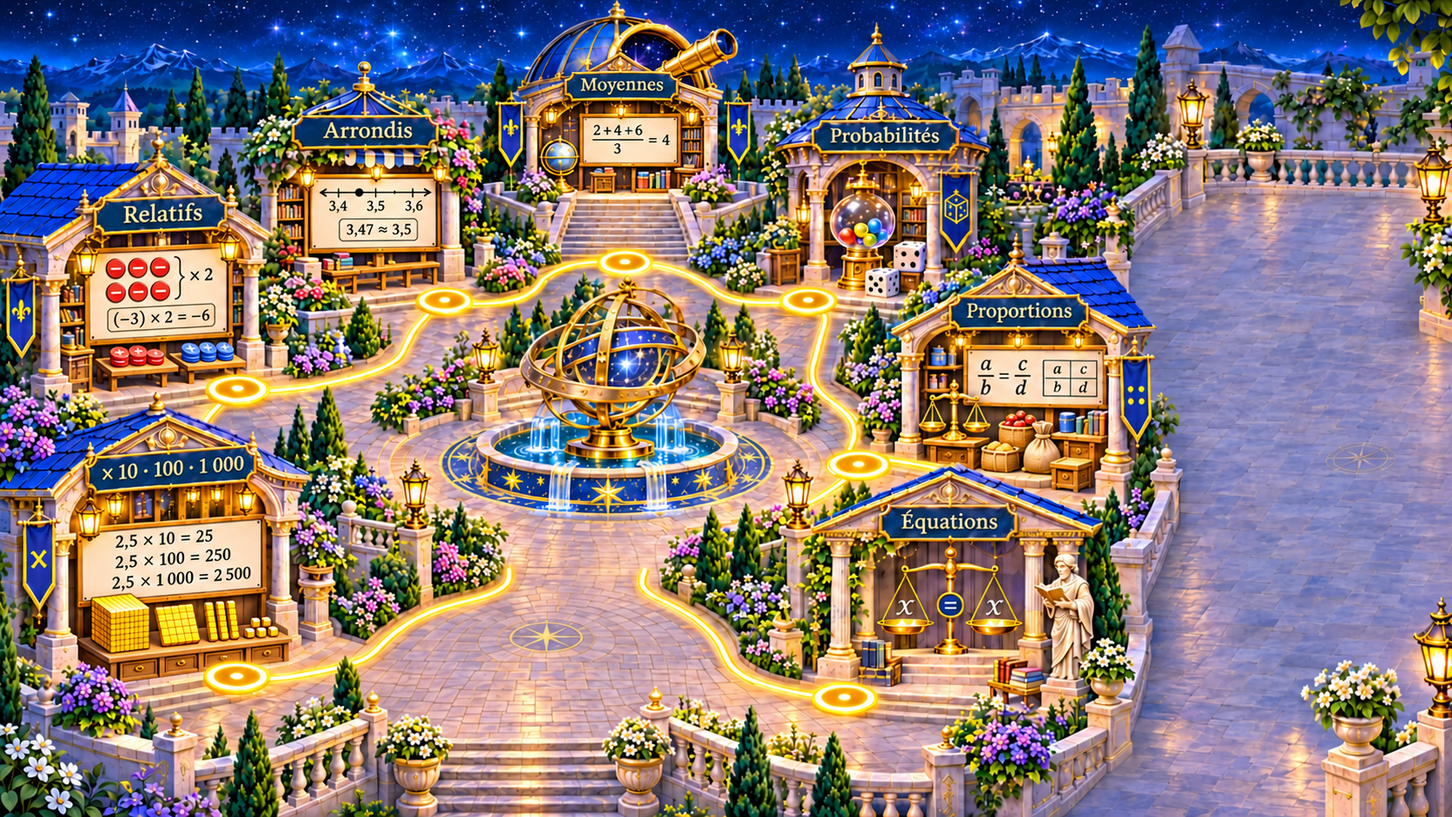
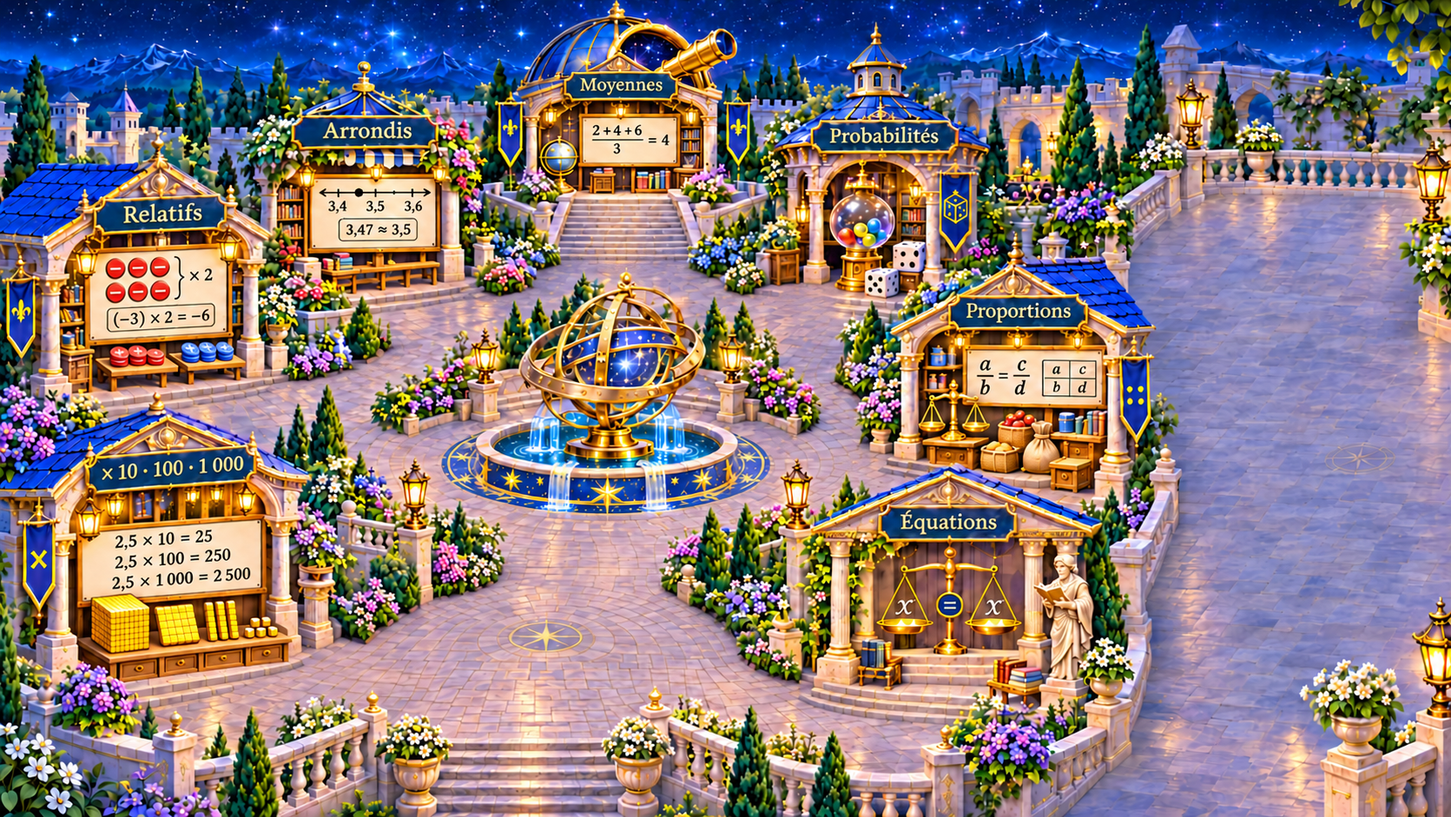
fix(test): center observatory paths and share gold route with hero movement (v0.3.60-test)

diff --git a/index.html b/index.html
@@ -4,7 +4,7 @@
   <meta charset="utf-8">
   <meta name="viewport" content="width=device-width, initial-scale=1">
   <meta name="theme-color" content="#111d31">
-  <title>Maths Quest — version 0.3.59-test — Bleu royal & or</title>
+  <title>Maths Quest — version 0.3.60-test — Bleu royal & or</title>
   <style>
     :root { font-family:system-ui,sans-serif; background:#101c2d; color:#eee6d4; color-scheme:dark; }
     * { box-sizing:border-box; }
@@ -203,7 +203,7 @@
 
 
     /* ====================================================================
-       v0.3.59-test - Thème retenu : Bleu royal, or et parchemin.
+       v0.3.60-test - Thème retenu : Bleu royal, or et parchemin.
        Toute la logique pédagogique 0.3 reste inchangée.
        ==================================================================== */
     .quiz-screen{
@@ -365,7 +365,7 @@
     @media(prefers-reduced-motion:reduce){.quiz-submit{transition:none}}
 
 
-    /* v0.3.59-test — Cartouche de défi à droite du héros. */
+    /* v0.3.60-test — Cartouche de défi à droite du héros. */
     .arrival{left:50.4%;top:27.7%;width:24.5%;max-width:360px;min-width:0;gap:clamp(3px,.5vw,8px);
       padding:clamp(5px,.72vw,12px);box-shadow:0 9px 23px #071c3bc7;}
     .arrival .arrival-heading{font-size:clamp(10px,.94vw,16px)}
@@ -373,7 +373,7 @@
     .arrival small{font-size:clamp(9px,.8vw,13px)}
     .arrival .arrival-action{font-size:clamp(10px,.95vw,16px);padding:clamp(6px,.65vw,12px)}
 
-    /* v0.3.59-test — Camp d'entrainement de face comme arrière-plan des exercices.
+    /* v0.3.60-test — Camp d'entrainement de face comme arrière-plan des exercices.
        L'interface d'Activités mentales reste indépendante de ce fond illustré. */
     .quiz-screen{
       background-image:linear-gradient(90deg,rgba(7,27,57,.47),rgba(10,34,63,.31) 50%,rgba(7,27,57,.47)),
@@ -417,7 +417,7 @@
 
 
     /* ================================================================
-       v0.3.59-test — adaptation à la HAUTEUR et à la LARGEUR de l'écran.
+       v0.3.60-test — adaptation à la HAUTEUR et à la LARGEUR de l'écran.
        Une question doit tenir dans la zone visible, bouton Valider inclus.
        Le bilan reste défilable car il contient les dix réponses.
        ================================================================ */
@@ -530,7 +530,7 @@
     }
 
 
-    /* v0.3.59-test — Écran de transition « Tables de multiplication ».
+    /* v0.3.60-test — Écran de transition « Tables de multiplication ».
        L'illustration est un décor, les zones actives sont de vrais boutons HTML. */
     .trial-transition[hidden] {display:none!important}
     .trial-transition {position:fixed;inset:0;z-index:55;display:flex;flex-direction:column;
@@ -575,7 +575,7 @@
     @media(min-width:701px){.oath{max-height:59%;overflow:auto}}
     .relative-intro{display:none!important}
     .transition-recap{left:68.1%;top:10.8%;width:20.8%;height:4%;background:#0b2541;font-size:clamp(8px,1.05vw,17px);border:0;box-shadow:none}
-    /* v0.3.59-test — Bilan ajusté à l'écran ; seul le détail des réponses défile. */
+    /* v0.3.60-test — Bilan ajusté à l'écran ; seul le détail des réponses défile. */
     .quiz-content:has(.quiz-results:not([hidden])) {
       display:flex;overflow:hidden;width:min(760px,calc(100% - 24px));
     }
@@ -901,7 +901,7 @@ body:has(dialog[open]) #appFullscreen{visibility:hidden}
 @media(max-width:640px){#appFullscreen{right:8px;bottom:8px;width:34px;height:34px;padding:7px}.brand-version{font-size:clamp(6px,1.5vw,10px)}}
 
 
-/* v0.3.59-test — Progression retirée des images sources, sans plaque de masquage. */
+/* v0.3.60-test — Progression retirée des images sources, sans plaque de masquage. */
 #scene,.transition-viewport{container-type:inline-size}
 .court-quests .court-quest-row{display:none!important}
 .court-quests .trial-groups{display:grid;height:68%;grid-auto-rows:minmax(0,1fr);grid-template-rows:none}
@@ -1092,7 +1092,7 @@ body:has(dialog[open]) #appFullscreen{visibility:hidden}
 <body>
 <svg width="0" height="0" aria-hidden="true" style="position:absolute"><defs><clipPath id="worldHeaderPanels" clipPathUnits="objectBoundingBox"><rect width=".33" height=".15"/><rect x=".39" width=".225" height=".15"/></clipPath></defs></svg>
   <main class="scene-area" id="sceneArea">
-    <div class="scene-viewport" id="scene"><span class="brand-version">v0.3.59-test</span>
+    <div class="scene-viewport" id="scene"><span class="brand-version">v0.3.60-test</span>
       <img class="scene-image" src="assets/carte-sans-progression.png"
         alt="L’Académie des Nombres, trois épreuves reliées par des flèches lumineuses, et l'entrée au premier plan." draggable="false">
       <svg class="route-layer" viewBox="0 0 1660 947" preserveAspectRatio="none" aria-hidden="true" focusable="false">
@@ -1183,7 +1183,7 @@ body:has(dialog[open]) #appFullscreen{visibility:hidden}
           draggable="false">
         <div class="quest-progress transition-progress" role="progressbar" aria-label="Défis validés" aria-valuemin="0" aria-valuemax="3" aria-valuenow="0"><span class="quest-progress-fill"></span></div>
         <span class="transition-recap" id="transitionRecap" aria-live="polite">1 / 3 défis validés ✓</span>
-        <span class="transition-version">Maths Quest · v0.3.59-test</span>
+        <span class="transition-version">Maths Quest · v0.3.60-test</span>
         <aside class="level-one-quests" aria-label="Quêtes du niveau 1"><h2>Quêtes du niveau</h2><div class="trial-groups"><div class="trial-group"><b>1</b><div><span id="transitionQuestLabel0">Calculs entiers</span><strong id="transitionQuestCount0"></strong></div><span id="transitionQuestDone0" class="court-quest-check" aria-label="Groupe en cours">✓</span></div><div class="trial-group"><b>2</b><div><span id="transitionQuestLabel1">Fractions</span><strong id="transitionQuestCount1"></strong></div><span id="transitionQuestDone1" class="court-quest-check" aria-label="Groupe en cours">✓</span></div></div><p>⭐ Obtiens au moins <strong>80 %</strong> de bonnes réponses pour avancer au niveau 2.</p></aside><div class="transition-panel-title">À toi de jouer !</div><div class="transition-choice-buttons"><button id="transitionStart" class="transition-hit transition-start" type="button"
           aria-label="Commencer le défi : Tables de multiplication" title="Commencer le défi"></button>
           <button id="skipCompletedTrial" class="skip-completed" type="button" hidden>Passer</button></div>
@@ -1217,7 +1217,7 @@ body:has(dialog[open]) #appFullscreen{visibility:hidden}
         <span class="quiz-logo" aria-hidden="true"><svg viewBox="0 0 64 68" width="45" height="48" role="presentation"><path d="M32 3 57 12 55 39Q47 55 32 64 17 55 9 39L7 12Z" fill="#173d79" stroke="#f8d38c" stroke-width="3"/><path d="M32 22Q23 14 15 20V43Q25 38 32 45Q39 38 49 43V20Q40 14 32 22Z" fill="#fff3cd" stroke="#d7b36a" stroke-width="2"/><path d="M32 22V45" fill="none" stroke="#aa8246" stroke-width="2"/><path d="M18 25Q25 23 29 27M35 27Q41 23 46 25M18 31Q24 29 29 33M35 33Q41 29 46 31" fill="none" stroke="#a68a5c" stroke-width="1.5"/></svg></span>
         <span><strong>Maths Quest</strong><small>L'Académie des Nombres · Niveau 1</small></span>
       </div>
-      <span class="quiz-stage-label">⚜ Les bases de l'Académie <small>v0.3.59-test</small></span>
+      <span class="quiz-stage-label">⚜ Les bases de l'Académie <small>v0.3.60-test</small></span>
     </header>
     <div class="quiz-content">
       <div id="quizQuestions" class="quiz-questions">
@@ -1281,9 +1281,9 @@ body:has(dialog[open]) #appFullscreen{visibility:hidden}
   </section>
 
 <section id="courtScreen" class="court-screen" hidden aria-label="Niveau 2, La Cour des Savoirs">
-<div id="courtArea" class="court-area"><div id="courtMap" class="court-map"><span class="brand-version">v0.3.59-test</span><img id="courtBackground" class="court-background" src="assets/cour-des-savoirs-sans-progression.png" alt="La Cour des Savoirs : six ateliers autour de la fontaine au cheval." draggable="false"><svg class="court-routes" viewBox="0 0 1616 970" aria-hidden="true"><defs><filter id="courtGlow"><feGaussianBlur stdDeviation="5"/></filter><marker id="courtArrow" viewBox="0 0 24 24" refX="19" refY="12" markerWidth="4.5" markerHeight="4.5" orient="auto"><path d="M2 2 22 12 2 22 7 12Z" fill="#fff7a8" stroke="#ffd52e" stroke-width="2"/></marker></defs><path d="M686.94,834.13 L677,808 L647,757 L615,724 L575,712 L540,724 L513.27,747.39" fill="none" stroke="#ffcf00" stroke-width="16" opacity=".8" filter="url(#courtGlow)"/><path d="M686.94,834.13 L677,808 L647,757 L615,724 L575,712 L540,724 L513.27,747.39" fill="none" stroke="#ffd52a" stroke-width="11"/><path d="M686.94,834.13 L677,808 L647,757 L615,724 L575,712 L540,724 L513.27,747.39" fill="none" stroke="#fff7a8" stroke-width="6"/><path d="M503.67,757.5 L482,785 L438,815 L383,825 L327,822 L303.9,813.34" fill="none" stroke="#ffcf00" stroke-width="16" opacity=".8" filter="url(#courtGlow)"/><path d="M503.67,757.5 L482,785 L438,815 L383,825 L327,822 L303.9,813.34" fill="none" stroke="#ffd52a" stroke-width="11"/><path d="M503.67,757.5 L482,785 L438,815 L383,825 L327,822 L303.9,813.34" fill="none" stroke="#fff7a8" stroke-width="6" marker-end="url(#courtArrow)"/><path d="M295.81,767.81 L322,745 L332,716 L330.44,690.99" fill="none" stroke="#ffcf00" stroke-width="16" opacity=".8" filter="url(#courtGlow)"/><path d="M295.81,767.81 L322,745 L332,716 L330.44,690.99" fill="none" stroke="#ffd52a" stroke-width="11"/><path d="M295.81,767.81 L322,745 L332,716 L330.44,690.99" fill="none" stroke="#fff7a8" stroke-width="6"/><path d="M330.6,677.03 L333,649 L352,609 L361.2,586.33" fill="none" stroke="#ffcf00" stroke-width="16" opacity=".8" filter="url(#courtGlow)"/><path d="M330.6,677.03 L333,649 L352,609 L361.2,586.33" fill="none" stroke="#ffd52a" stroke-width="11"/><path d="M330.6,677.03 L333,649 L352,609 L361.2,586.33" fill="none" stroke="#fff7a8" stroke-width="6" marker-end="url(#courtArrow)"/><path d="M420.83,514.76 L435,506 L477.4,474.2" fill="none" stroke="#ffcf00" stroke-width="16" opacity=".8" filter="url(#courtGlow)"/><path d="M420.83,514.76 L435,506 L477.4,474.2" fill="none" stroke="#ffd52a" stroke-width="11"/><path d="M420.83,514.76 L435,506 L477.4,474.2" fill="none" stroke="#fff7a8" stroke-width="6"/><path d="M487.89,464.99 L519.61,432.42" fill="none" stroke="#ffcf00" stroke-width="16" opacity=".8" filter="url(#courtGlow)"/><path d="M487.89,464.99 L519.61,432.42" fill="none" stroke="#ffd52a" stroke-width="11"/><path d="M487.89,464.99 L519.61,432.42" fill="none" stroke="#fff7a8" stroke-width="6" marker-end="url(#courtArrow)"/><path d="M595.9,381.8 L618,377 L676.14,365.37" fill="none" stroke="#ffcf00" stroke-width="16" opacity=".8" filter="url(#courtGlow)"/><path d="M595.9,381.8 L618,377 L676.14,365.37" fill="none" stroke="#ffd52a" stroke-width="11"/><path d="M595.9,381.8 L618,377 L676.14,365.37" fill="none" stroke="#fff7a8" stroke-width="6"/><path d="M689.86,365.37 L733,374 L739.15,375.34" fill="none" stroke="#ffcf00" stroke-width="16" opacity=".8" filter="url(#courtGlow)"/><path d="M689.86,365.37 L733,374 L739.15,375.34" fill="none" stroke="#ffd52a" stroke-width="11"/><path d="M689.86,365.37 L733,374 L739.15,375.34" fill="none" stroke="#fff7a8" stroke-width="6" marker-end="url(#courtArrow)"/><path d="M821.47,420.4 L824,423 L880.6,448.16" fill="none" stroke="#ffcf00" stroke-width="16" opacity=".8" filter="url(#courtGlow)"/><path d="M821.47,420.4 L824,423 L880.6,448.16" fill="none" stroke="#ffd52a" stroke-width="11"/><path d="M821.47,420.4 L824,423 L880.6,448.16" fill="none" stroke="#fff7a8" stroke-width="6"/><path d="M893.69,453.06 L965,475 L997.75,483.89" fill="none" stroke="#ffcf00" stroke-width="16" opacity=".8" filter="url(#courtGlow)"/><path d="M893.69,453.06 L965,475 L997.75,483.89" fill="none" stroke="#ffd52a" stroke-width="11"/><path d="M893.69,453.06 L965,475 L997.75,483.89" fill="none" stroke="#fff7a8" stroke-width="6" marker-end="url(#courtArrow)"/><path d="M1008.99,527.57 L1000,535 L952,577 L918,630 L910.09,680.09" fill="none" stroke="#ffcf00" stroke-width="16" opacity=".8" filter="url(#courtGlow)"/><path d="M1008.99,527.57 L1000,535 L952,577 L918,630 L910.09,680.09" fill="none" stroke="#ffd52a" stroke-width="11"/><path d="M1008.99,527.57 L1000,535 L952,577 L918,630 L910.09,680.09" fill="none" stroke="#fff7a8" stroke-width="6"/><path d="M914.59,691.22 L962,727 L1044,756 L1105.15,769.34" fill="none" stroke="#ffcf00" stroke-width="16" opacity=".8" filter="url(#courtGlow)"/><path d="M914.59,691.22 L962,727 L1044,756 L1105.15,769.34" fill="none" stroke="#ffd52a" stroke-width="11"/><path d="M914.59,691.22 L962,727 L1044,756 L1105.15,769.34" fill="none" stroke="#fff7a8" stroke-width="6" marker-end="url(#courtArrow)"/><path d="M1193.23,807.66 L1215,823 L1269.31,861.92" fill="none" stroke="#ffcf00" stroke-width="16" opacity=".8" filter="url(#courtGlow)"/><path d="M1193.23,807.66 L1215,823 L1269.31,861.92" fill="none" stroke="#ffd52a" stroke-width="11"/><path d="M1193.23,807.66 L1215,823 L1269.31,861.92" fill="none" stroke="#fff7a8" stroke-width="6"/><path d="M1281.14,869.36 L1339,901 L1383.89,909.6" fill="none" stroke="#ffcf00" stroke-width="16" opacity=".8" filter="url(#courtGlow)"/><path d="M1281.14,869.36 L1339,901 L1383.89,909.6" fill="none" stroke="#ffd52a" stroke-width="11"/><path d="M1281.14,869.36 L1339,901 L1383.89,909.6" fill="none" stroke="#fff7a8" stroke-width="6" marker-end="url(#courtArrow)"/></svg><div class="court-progress-cover"><div id="courtProgress" class="court-progress" role="progressbar" aria-label="Défis validés du niveau 2" aria-valuemin="0" aria-valuemax="6" aria-valuenow="0"><span id="courtProgressFill"></span></div><span id="courtCount">0 / 6 défis validés</span></div><span id="courtDone0" class="court-done" style="top:27%" hidden aria-label="Défi 1 validé">✓</span><span id="courtDone1" class="court-done" style="top:33.3%" hidden aria-label="Défi 2 validé">✓</span><span id="courtDone2" class="court-done" style="top:39.8%" hidden aria-label="Défi 3 validé">✓</span><span id="courtDone3" class="court-done" style="top:46.1%" hidden aria-label="Défi 4 validé">✓</span><span id="courtDone4" class="court-done" style="top:52.36%" hidden aria-label="Défi 5 validé">✓</span><span id="courtDone5" class="court-done" style="top:58.42%" hidden aria-label="Défi 6 validé">✓</span><span id="observatoryGroup0" class="observatory-group-count" style="top:30.6%" hidden>0 / 5</span><span id="observatoryGroupDone0" class="observatory-group-done" style="top:28.7%" hidden>✓</span><span id="observatoryGroup1" class="observatory-group-count" style="top:43.4%" hidden>0 / 2</span><span id="observatoryGroupDone1" class="observatory-group-done" style="top:39.0%" hidden>✓</span><span id="observatoryGroup2" class="observatory-group-count" style="top:54.1%" hidden>0 / 6</span><span id="observatoryGroupDone2" class="observatory-group-done" style="top:50.8%" hidden>✓</span><aside class="level-one-quests world-map-quests" aria-label="Quêtes du niveau"><h2>Quêtes du niveau</h2><div class="trial-groups"><div class="trial-group"><b>1</b><div><span id="worldMapGroupLabel0">Mesures & proportionnalité</span><strong id="worldMapGroupCount0"></strong></div><span id="worldMapGroupDone0" class="court-quest-check" aria-label="Groupe en cours">✓</span></div><div class="trial-group"><b>2</b><div><span id="worldMapGroupLabel1">Statistiques & probabilités</span><strong id="worldMapGroupCount1"></strong></div><span id="worldMapGroupDone1" class="court-quest-check" aria-label="Groupe en cours">✓</span></div><div class="trial-group"><b>3</b><div><span id="worldMapGroupLabel2">Calcul & algèbre</span><strong id="worldMapGroupCount2"></strong></div><span id="worldMapGroupDone2" class="court-quest-check" aria-label="Groupe en cours">✓</span></div><div class="trial-group"><b>4</b><div><span id="worldMapGroupLabel3"></span><strong id="worldMapGroupCount3"></strong></div><span id="worldMapGroupDone3" class="court-quest-check" aria-label="Groupe en cours">✓</span></div></div><p>⭐ Obtiens au moins <strong>80 %</strong> de bonnes réponses pour valider chaque épreuve.</p></aside><img id="courtHero" class="court-hero" alt="Le héros se déplace vers les épreuves." draggable="false"><img id="courtDepthBoard" class="court-depth-board" alt="" aria-hidden="true"></div></div>
+<div id="courtArea" class="court-area"><div id="courtMap" class="court-map"><span class="brand-version">v0.3.60-test</span><img id="courtBackground" class="court-background" src="assets/cour-des-savoirs-sans-progression.png" alt="La Cour des Savoirs : six ateliers autour de la fontaine au cheval." draggable="false"><svg class="court-routes" viewBox="0 0 1616 970" aria-hidden="true"><defs><filter id="courtGlow"><feGaussianBlur stdDeviation="5"/></filter><marker id="courtArrow" viewBox="0 0 24 24" refX="19" refY="12" markerWidth="4.5" markerHeight="4.5" orient="auto"><path d="M2 2 22 12 2 22 7 12Z" fill="#fff7a8" stroke="#ffd52e" stroke-width="2"/></marker></defs><path d="M686.94,834.13 L677,808 L647,757 L615,724 L575,712 L540,724 L513.27,747.39" fill="none" stroke="#ffcf00" stroke-width="16" opacity=".8" filter="url(#courtGlow)"/><path d="M686.94,834.13 L677,808 L647,757 L615,724 L575,712 L540,724 L513.27,747.39" fill="none" stroke="#ffd52a" stroke-width="11"/><path d="M686.94,834.13 L677,808 L647,757 L615,724 L575,712 L540,724 L513.27,747.39" fill="none" stroke="#fff7a8" stroke-width="6"/><path d="M503.67,757.5 L482,785 L438,815 L383,825 L327,822 L303.9,813.34" fill="none" stroke="#ffcf00" stroke-width="16" opacity=".8" filter="url(#courtGlow)"/><path d="M503.67,757.5 L482,785 L438,815 L383,825 L327,822 L303.9,813.34" fill="none" stroke="#ffd52a" stroke-width="11"/><path d="M503.67,757.5 L482,785 L438,815 L383,825 L327,822 L303.9,813.34" fill="none" stroke="#fff7a8" stroke-width="6" marker-end="url(#courtArrow)"/><path d="M295.81,767.81 L322,745 L332,716 L330.44,690.99" fill="none" stroke="#ffcf00" stroke-width="16" opacity=".8" filter="url(#courtGlow)"/><path d="M295.81,767.81 L322,745 L332,716 L330.44,690.99" fill="none" stroke="#ffd52a" stroke-width="11"/><path d="M295.81,767.81 L322,745 L332,716 L330.44,690.99" fill="none" stroke="#fff7a8" stroke-width="6"/><path d="M330.6,677.03 L333,649 L352,609 L361.2,586.33" fill="none" stroke="#ffcf00" stroke-width="16" opacity=".8" filter="url(#courtGlow)"/><path d="M330.6,677.03 L333,649 L352,609 L361.2,586.33" fill="none" stroke="#ffd52a" stroke-width="11"/><path d="M330.6,677.03 L333,649 L352,609 L361.2,586.33" fill="none" stroke="#fff7a8" stroke-width="6" marker-end="url(#courtArrow)"/><path d="M420.83,514.76 L435,506 L477.4,474.2" fill="none" stroke="#ffcf00" stroke-width="16" opacity=".8" filter="url(#courtGlow)"/><path d="M420.83,514.76 L435,506 L477.4,474.2" fill="none" stroke="#ffd52a" stroke-width="11"/><path d="M420.83,514.76 L435,506 L477.4,474.2" fill="none" stroke="#fff7a8" stroke-width="6"/><path d="M487.89,464.99 L519.61,432.42" fill="none" stroke="#ffcf00" stroke-width="16" opacity=".8" filter="url(#courtGlow)"/><path d="M487.89,464.99 L519.61,432.42" fill="none" stroke="#ffd52a" stroke-width="11"/><path d="M487.89,464.99 L519.61,432.42" fill="none" stroke="#fff7a8" stroke-width="6" marker-end="url(#courtArrow)"/><path d="M595.9,381.8 L618,377 L676.14,365.37" fill="none" stroke="#ffcf00" stroke-width="16" opacity=".8" filter="url(#courtGlow)"/><path d="M595.9,381.8 L618,377 L676.14,365.37" fill="none" stroke="#ffd52a" stroke-width="11"/><path d="M595.9,381.8 L618,377 L676.14,365.37" fill="none" stroke="#fff7a8" stroke-width="6"/><path d="M689.86,365.37 L733,374 L739.15,375.34" fill="none" stroke="#ffcf00" stroke-width="16" opacity=".8" filter="url(#courtGlow)"/><path d="M689.86,365.37 L733,374 L739.15,375.34" fill="none" stroke="#ffd52a" stroke-width="11"/><path d="M689.86,365.37 L733,374 L739.15,375.34" fill="none" stroke="#fff7a8" stroke-width="6" marker-end="url(#courtArrow)"/><path d="M821.47,420.4 L824,423 L880.6,448.16" fill="none" stroke="#ffcf00" stroke-width="16" opacity=".8" filter="url(#courtGlow)"/><path d="M821.47,420.4 L824,423 L880.6,448.16" fill="none" stroke="#ffd52a" stroke-width="11"/><path d="M821.47,420.4 L824,423 L880.6,448.16" fill="none" stroke="#fff7a8" stroke-width="6"/><path d="M893.69,453.06 L965,475 L997.75,483.89" fill="none" stroke="#ffcf00" stroke-width="16" opacity=".8" filter="url(#courtGlow)"/><path d="M893.69,453.06 L965,475 L997.75,483.89" fill="none" stroke="#ffd52a" stroke-width="11"/><path d="M893.69,453.06 L965,475 L997.75,483.89" fill="none" stroke="#fff7a8" stroke-width="6" marker-end="url(#courtArrow)"/><path d="M1008.99,527.57 L1000,535 L952,577 L918,630 L910.09,680.09" fill="none" stroke="#ffcf00" stroke-width="16" opacity=".8" filter="url(#courtGlow)"/><path d="M1008.99,527.57 L1000,535 L952,577 L918,630 L910.09,680.09" fill="none" stroke="#ffd52a" stroke-width="11"/><path d="M1008.99,527.57 L1000,535 L952,577 L918,630 L910.09,680.09" fill="none" stroke="#fff7a8" stroke-width="6"/><path d="M914.59,691.22 L962,727 L1044,756 L1105.15,769.34" fill="none" stroke="#ffcf00" stroke-width="16" opacity=".8" filter="url(#courtGlow)"/><path d="M914.59,691.22 L962,727 L1044,756 L1105.15,769.34" fill="none" stroke="#ffd52a" stroke-width="11"/><path d="M914.59,691.22 L962,727 L1044,756 L1105.15,769.34" fill="none" stroke="#fff7a8" stroke-width="6" marker-end="url(#courtArrow)"/><path d="M1193.23,807.66 L1215,823 L1269.31,861.92" fill="none" stroke="#ffcf00" stroke-width="16" opacity=".8" filter="url(#courtGlow)"/><path d="M1193.23,807.66 L1215,823 L1269.31,861.92" fill="none" stroke="#ffd52a" stroke-width="11"/><path d="M1193.23,807.66 L1215,823 L1269.31,861.92" fill="none" stroke="#fff7a8" stroke-width="6"/><path d="M1281.14,869.36 L1339,901 L1383.89,909.6" fill="none" stroke="#ffcf00" stroke-width="16" opacity=".8" filter="url(#courtGlow)"/><path d="M1281.14,869.36 L1339,901 L1383.89,909.6" fill="none" stroke="#ffd52a" stroke-width="11"/><path d="M1281.14,869.36 L1339,901 L1383.89,909.6" fill="none" stroke="#fff7a8" stroke-width="6" marker-end="url(#courtArrow)"/></svg><div class="court-progress-cover"><div id="courtProgress" class="court-progress" role="progressbar" aria-label="Défis validés du niveau 2" aria-valuemin="0" aria-valuemax="6" aria-valuenow="0"><span id="courtProgressFill"></span></div><span id="courtCount">0 / 6 défis validés</span></div><span id="courtDone0" class="court-done" style="top:27%" hidden aria-label="Défi 1 validé">✓</span><span id="courtDone1" class="court-done" style="top:33.3%" hidden aria-label="Défi 2 validé">✓</span><span id="courtDone2" class="court-done" style="top:39.8%" hidden aria-label="Défi 3 validé">✓</span><span id="courtDone3" class="court-done" style="top:46.1%" hidden aria-label="Défi 4 validé">✓</span><span id="courtDone4" class="court-done" style="top:52.36%" hidden aria-label="Défi 5 validé">✓</span><span id="courtDone5" class="court-done" style="top:58.42%" hidden aria-label="Défi 6 validé">✓</span><span id="observatoryGroup0" class="observatory-group-count" style="top:30.6%" hidden>0 / 5</span><span id="observatoryGroupDone0" class="observatory-group-done" style="top:28.7%" hidden>✓</span><span id="observatoryGroup1" class="observatory-group-count" style="top:43.4%" hidden>0 / 2</span><span id="observatoryGroupDone1" class="observatory-group-done" style="top:39.0%" hidden>✓</span><span id="observatoryGroup2" class="observatory-group-count" style="top:54.1%" hidden>0 / 6</span><span id="observatoryGroupDone2" class="observatory-group-done" style="top:50.8%" hidden>✓</span><aside class="level-one-quests world-map-quests" aria-label="Quêtes du niveau"><h2>Quêtes du niveau</h2><div class="trial-groups"><div class="trial-group"><b>1</b><div><span id="worldMapGroupLabel0">Mesures & proportionnalité</span><strong id="worldMapGroupCount0"></strong></div><span id="worldMapGroupDone0" class="court-quest-check" aria-label="Groupe en cours">✓</span></div><div class="trial-group"><b>2</b><div><span id="worldMapGroupLabel1">Statistiques & probabilités</span><strong id="worldMapGroupCount1"></strong></div><span id="worldMapGroupDone1" class="court-quest-check" aria-label="Groupe en cours">✓</span></div><div class="trial-group"><b>3</b><div><span id="worldMapGroupLabel2">Calcul & algèbre</span><strong id="worldMapGroupCount2"></strong></div><span id="worldMapGroupDone2" class="court-quest-check" aria-label="Groupe en cours">✓</span></div><div class="trial-group"><b>4</b><div><span id="worldMapGroupLabel3"></span><strong id="worldMapGroupCount3"></strong></div><span id="worldMapGroupDone3" class="court-quest-check" aria-label="Groupe en cours">✓</span></div></div><p>⭐ Obtiens au moins <strong>80 %</strong> de bonnes réponses pour valider chaque épreuve.</p></aside><img id="courtHero" class="court-hero" alt="Le héros se déplace vers les épreuves." draggable="false"><img id="courtDepthBoard" class="court-depth-board" alt="" aria-hidden="true"></div></div>
 <footer class="court-controls"><p id="courtMessage" role="status" aria-live="polite"></p><div class="court-buttons"><button id="courtAction" type="button">⚔ Commencer le parcours</button><button id="courtFullscreen" type="button">⛶ Plein écran</button><button id="courtZoom" type="button">⌕ Agrandir la carte</button><button id="courtReset" type="button">↻ Retour à l’entrée</button><button id="skipLevelTwo" type="button">Passer au niveau 3 →</button><button id="courtBack" type="button">← Niveau 1</button></div></footer></section>
-<section id="courtTrial" class="court-screen court-trial" hidden aria-label="Entrée de l’épreuve du niveau 2"><div id="courtTrialArea" class="court-area"><div id="courtTrialScene" class="court-trial-scene"><span class="brand-version">v0.3.59-test</span><img id="courtTrialHeader" class="court-ui-header" alt="" aria-hidden="true"><div class="court-world-title"><span id="courtWorldTitle">Niveau 2</span><small id="courtWorldSubtitle">La Cour des Savoirs</small></div><div class="court-trial-progress"><div class="court-progress" role="progressbar" id="courtTrialProgress" aria-label="Défis validés du niveau 2" aria-valuemin="0" aria-valuemax="6" aria-valuenow="0"><span id="courtTrialProgressFill"></span></div><span id="courtTrialCount" class="court-trial-count"></span></div><aside id="courtTrialQuests" class="court-quests" aria-label="Quêtes du niveau"><h2>Quêtes du niveau</h2><div class="trial-groups"><div class="trial-group"><b>1</b><div><span id="trialGroupLabel0">Mesures & proportionnalité</span><strong id="trialGroupCount0"></strong></div><span id="trialGroupDone0" class="court-quest-check" aria-label="Groupe en cours">✓</span></div><div class="trial-group"><b>2</b><div><span id="trialGroupLabel1">Statistiques & probabilités</span><strong id="trialGroupCount1"></strong></div><span id="trialGroupDone1" class="court-quest-check" aria-label="Groupe en cours">✓</span></div><div class="trial-group"><b>3</b><div><span id="trialGroupLabel2">Calcul & algèbre</span><strong id="trialGroupCount2"></strong></div><span id="trialGroupDone2" class="court-quest-check" aria-label="Groupe en cours">✓</span></div><div class="trial-group"><b>4</b><div><span id="trialGroupLabel3"></span><strong id="trialGroupCount3"></strong></div><span id="trialGroupDone3" class="court-quest-check" aria-label="Groupe en cours">✓</span></div></div><div id="worldQuestRow0" class="court-quest-row"><b>1</b><span id="worldQuestLabel0">Conversions de longueurs</span><span id="courtTrialDone0" class="court-quest-check" aria-label="Non validé">✓</span></div><div id="worldQuestRow1" class="court-quest-row"><b>2</b><span id="worldQuestLabel1">Tableaux de proportionnalité</span><span id="courtTrialDone1" class="court-quest-check" aria-label="Non validé">✓</span></div><div id="worldQuestRow2" class="court-quest-row"><b>3</b><span id="worldQuestLabel2">Étendue d’une série</span><span id="courtTrialDone2" class="court-quest-check" aria-label="Non validé">✓</span></div><div id="worldQuestRow3" class="court-quest-row"><b>4</b><span id="worldQuestLabel3">Probabilités</span><span id="courtTrialDone3" class="court-quest-check" aria-label="Non validé">✓</span></div><div id="worldQuestRow4" class="court-quest-row"><b>5</b><span id="worldQuestLabel4">Calcul d’expressions</span><span id="courtTrialDone4" class="court-quest-check" aria-label="Non validé">✓</span></div><div id="worldQuestRow5" class="court-quest-row"><b>6</b><span id="worldQuestLabel5">Équations</span><span id="courtTrialDone5" class="court-quest-check" aria-label="Non validé">✓</span></div><div id="worldQuestRow6" class="court-quest-row" hidden><b>7</b><span id="worldQuestLabel6"></span><span id="courtTrialDone6" class="court-quest-check" aria-label="Non validé">✓</span></div><div id="worldQuestRow7" class="court-quest-row" hidden><b>8</b><span id="worldQuestLabel7"></span><span id="courtTrialDone7" class="court-quest-check" aria-label="Non validé">✓</span></div><div id="worldQuestRow8" class="court-quest-row" hidden><b>9</b><span id="worldQuestLabel8"></span><span id="courtTrialDone8" class="court-quest-check" aria-label="Non validé">✓</span></div><div id="worldQuestRow9" class="court-quest-row" hidden><b>10</b><span id="worldQuestLabel9"></span><span id="courtTrialDone9" class="court-quest-check" aria-label="Non validé">✓</span></div><div id="worldQuestRow10" class="court-quest-row" hidden><b>11</b><span id="worldQuestLabel10"></span><span id="courtTrialDone10" class="court-quest-check" aria-label="Non validé">✓</span></div><div id="worldQuestRow11" class="court-quest-row" hidden><b>12</b><span id="worldQuestLabel11"></span><span id="courtTrialDone11" class="court-quest-check" aria-label="Non validé">✓</span></div><div id="worldQuestRow12" class="court-quest-row" hidden><b>13</b><span id="worldQuestLabel12"></span><span id="courtTrialDone12" class="court-quest-check" aria-label="Non validé">✓</span></div><p class="court-goal">⭐ Obtiens au moins<br><strong>80 %</strong> de bonnes réponses<br>pour avancer au niveau <span id="courtGoalLevel">3</span>.</p></aside><img id="courtTrialArt" class="court-trial-art" alt="Vue de face de l’atelier" draggable="false"><div class="court-trial-caption"><span id="courtTrialNumber" class="court-station-number"></span><span id="courtTrialPlace"></span></div><div id="courtTrialRing" hidden aria-hidden="true"></div><img id="courtTrialHero" class="court-trial-hero" alt="Le héros regarde l’atelier." draggable="false"><div class="court-panel"><span id="courtTrialOrder" class="court-order"></span><h1 id="courtTrialTitle"></h1><div class="court-line"></div><p id="courtTrialRule" class="court-rule"></p><p>🎯 10 questions</p><p id="courtTrialTime"></p><p class="court-threshold">⭐ 8 bonnes réponses pour continuer</p><div class="court-line"></div><div class="court-actions"><button id="courtTrialStart" type="button">▶ Commencer le défi</button><button id="courtTrialPass" type="button" hidden>Passer</button></div></div><footer class="court-transition-tools"><button id="courtTrialBack" type="button">← Retour à la carte</button><button id="courtTrialFullscreen" type="button">⛶ Plein écran</button><button id="courtTrialZoom" type="button">⌕ Agrandir la carte</button><button id="courtTrialReplay" type="button">↻ Rejouer le trajet</button><span class="court-version">Maths Quest · v0.3.59-test</span></footer></div></div></section>
+<section id="courtTrial" class="court-screen court-trial" hidden aria-label="Entrée de l’épreuve du niveau 2"><div id="courtTrialArea" class="court-area"><div id="courtTrialScene" class="court-trial-scene"><span class="brand-version">v0.3.60-test</span><img id="courtTrialHeader" class="court-ui-header" alt="" aria-hidden="true"><div class="court-world-title"><span id="courtWorldTitle">Niveau 2</span><small id="courtWorldSubtitle">La Cour des Savoirs</small></div><div class="court-trial-progress"><div class="court-progress" role="progressbar" id="courtTrialProgress" aria-label="Défis validés du niveau 2" aria-valuemin="0" aria-valuemax="6" aria-valuenow="0"><span id="courtTrialProgressFill"></span></div><span id="courtTrialCount" class="court-trial-count"></span></div><aside id="courtTrialQuests" class="court-quests" aria-label="Quêtes du niveau"><h2>Quêtes du niveau</h2><div class="trial-groups"><div class="trial-group"><b>1</b><div><span id="trialGroupLabel0">Mesures & proportionnalité</span><strong id="trialGroupCount0"></strong></div><span id="trialGroupDone0" class="court-quest-check" aria-label="Groupe en cours">✓</span></div><div class="trial-group"><b>2</b><div><span id="trialGroupLabel1">Statistiques & probabilités</span><strong id="trialGroupCount1"></strong></div><span id="trialGroupDone1" class="court-quest-check" aria-label="Groupe en cours">✓</span></div><div class="trial-group"><b>3</b><div><span id="trialGroupLabel2">Calcul & algèbre</span><strong id="trialGroupCount2"></strong></div><span id="trialGroupDone2" class="court-quest-check" aria-label="Groupe en cours">✓</span></div><div class="trial-group"><b>4</b><div><span id="trialGroupLabel3"></span><strong id="trialGroupCount3"></strong></div><span id="trialGroupDone3" class="court-quest-check" aria-label="Groupe en cours">✓</span></div></div><div id="worldQuestRow0" class="court-quest-row"><b>1</b><span id="worldQuestLabel0">Conversions de longueurs</span><span id="courtTrialDone0" class="court-quest-check" aria-label="Non validé">✓</span></div><div id="worldQuestRow1" class="court-quest-row"><b>2</b><span id="worldQuestLabel1">Tableaux de proportionnalité</span><span id="courtTrialDone1" class="court-quest-check" aria-label="Non validé">✓</span></div><div id="worldQuestRow2" class="court-quest-row"><b>3</b><span id="worldQuestLabel2">Étendue d’une série</span><span id="courtTrialDone2" class="court-quest-check" aria-label="Non validé">✓</span></div><div id="worldQuestRow3" class="court-quest-row"><b>4</b><span id="worldQuestLabel3">Probabilités</span><span id="courtTrialDone3" class="court-quest-check" aria-label="Non validé">✓</span></div><div id="worldQuestRow4" class="court-quest-row"><b>5</b><span id="worldQuestLabel4">Calcul d’expressions</span><span id="courtTrialDone4" class="court-quest-check" aria-label="Non validé">✓</span></div><div id="worldQuestRow5" class="court-quest-row"><b>6</b><span id="worldQuestLabel5">Équations</span><span id="courtTrialDone5" class="court-quest-check" aria-label="Non validé">✓</span></div><div id="worldQuestRow6" class="court-quest-row" hidden><b>7</b><span id="worldQuestLabel6"></span><span id="courtTrialDone6" class="court-quest-check" aria-label="Non validé">✓</span></div><div id="worldQuestRow7" class="court-quest-row" hidden><b>8</b><span id="worldQuestLabel7"></span><span id="courtTrialDone7" class="court-quest-check" aria-label="Non validé">✓</span></div><div id="worldQuestRow8" class="court-quest-row" hidden><b>9</b><span id="worldQuestLabel8"></span><span id="courtTrialDone8" class="court-quest-check" aria-label="Non validé">✓</span></div><div id="worldQuestRow9" class="court-quest-row" hidden><b>10</b><span id="worldQuestLabel9"></span><span id="courtTrialDone9" class="court-quest-check" aria-label="Non validé">✓</span></div><div id="worldQuestRow10" class="court-quest-row" hidden><b>11</b><span id="worldQuestLabel10"></span><span id="courtTrialDone10" class="court-quest-check" aria-label="Non validé">✓</span></div><div id="worldQuestRow11" class="court-quest-row" hidden><b>12</b><span id="worldQuestLabel11"></span><span id="courtTrialDone11" class="court-quest-check" aria-label="Non validé">✓</span></div><div id="worldQuestRow12" class="court-quest-row" hidden><b>13</b><span id="worldQuestLabel12"></span><span id="courtTrialDone12" class="court-quest-check" aria-label="Non validé">✓</span></div><p class="court-goal">⭐ Obtiens au moins<br><strong>80 %</strong> de bonnes réponses<br>pour avancer au niveau <span id="courtGoalLevel">3</span>.</p></aside><img id="courtTrialArt" class="court-trial-art" alt="Vue de face de l’atelier" draggable="false"><div class="court-trial-caption"><span id="courtTrialNumber" class="court-station-number"></span><span id="courtTrialPlace"></span></div><div id="courtTrialRing" hidden aria-hidden="true"></div><img id="courtTrialHero" class="court-trial-hero" alt="Le héros regarde l’atelier." draggable="false"><div class="court-panel"><span id="courtTrialOrder" class="court-order"></span><h1 id="courtTrialTitle"></h1><div class="court-line"></div><p id="courtTrialRule" class="court-rule"></p><p>🎯 10 questions</p><p id="courtTrialTime"></p><p class="court-threshold">⭐ 8 bonnes réponses pour continuer</p><div class="court-line"></div><div class="court-actions"><button id="courtTrialStart" type="button">▶ Commencer le défi</button><button id="courtTrialPass" type="button" hidden>Passer</button></div></div><footer class="court-transition-tools"><button id="courtTrialBack" type="button">← Retour à la carte</button><button id="courtTrialFullscreen" type="button">⛶ Plein écran</button><button id="courtTrialZoom" type="button">⌕ Agrandir la carte</button><button id="courtTrialReplay" type="button">↻ Rejouer le trajet</button><span class="court-version">Maths Quest · v0.3.60-test</span></footer></div></div></section>
 <div id="courtComplete" class="court-complete" hidden role="dialog" aria-modal="true" aria-labelledby="courtCompleteTitle"><div class="court-victory-card"><div id="courtVictoryScene" class="court-victory-scene"><img id="courtVictoryBackdrop" class="court-victory-backdrop" alt="La dernière porte de la Cour des Savoirs."><h2 id="courtCompleteTitle" class="court-victory-title">🏆 Niveau 2 terminé !<small>La Cour des Savoirs</small></h2><div class="court-victory-aura" aria-hidden="true"></div><div class="court-victory-walker"><img id="courtVictoryHero" alt="Le héros avance vers la porte puis s’arrête."></div><span class="court-victory-spark" aria-hidden="true" style="--sx:64%;--sy:57%;--delay:0.0s">✦</span><span class="court-victory-spark" aria-hidden="true" style="--sx:70%;--sy:50%;--delay:0.08s">✦</span><span class="court-victory-spark" aria-hidden="true" style="--sx:76%;--sy:45%;--delay:0.16s">✦</span><span class="court-victory-spark" aria-hidden="true" style="--sx:83%;--sy:53%;--delay:0.24s">✦</span><span class="court-victory-spark" aria-hidden="true" style="--sx:91%;--sy:60%;--delay:0.32s">✦</span><span class="court-victory-spark" aria-hidden="true" style="--sx:86%;--sy:72%;--delay:0.4s">✦</span><span class="court-victory-spark" aria-hidden="true" style="--sx:68%;--sy:75%;--delay:0.48s">✦</span><span class="court-victory-spark" aria-hidden="true" style="--sx:78%;--sy:68%;--delay:0.56s">✦</span><span class="court-victory-spark" aria-hidden="true" style="--sx:58%;--sy:65%;--delay:0.64s">✦</span><span class="court-victory-spark" aria-hidden="true" style="--sx:94%;--sy:43%;--delay:0.72s">✦</span><span class="court-victory-spark" aria-hidden="true" style="--sx:55%;--sy:43%;--delay:0.8s">✦</span><span class="court-victory-spark" aria-hidden="true" style="--sx:88%;--sy:36%;--delay:0.88s">✦</span></div><div class="court-victory-footer"><p id="courtVictoryStatus" role="status" aria-live="polite">Six épreuves remportées !</p><p id="courtVictoryNext" class="court-victory-next">La prochaine aventure sera ajoutée au-delà de cette porte.</p><button id="observatoryContinue" type="button">Rejoindre l’Observatoire royal →</button><button id="enterLevelFour" type="button" hidden>Entrer dans la Forge des Nombres — Niveau 4 →</button><button id="courtVictoryReplay" type="button">↻ Revoir l’animation</button><button id="courtCompleteClose" type="button">Revenir à la cour</button></div></div></div>
 <template id="courtArts"><img src="assets/atelier-1.png" alt="Atelier 1"><img src="assets/atelier-2.png" alt="Atelier 2"><img src="assets/atelier-3.png" alt="Atelier 3"><img src="assets/atelier-4.png" alt="Atelier 4"><img src="assets/atelier-5.png" alt="Atelier 5"><img src="assets/atelier-6.png" alt="Atelier 6"></template>
 <aside id="calculatorDrawer" class="calculator-drawer" hidden aria-labelledby="calculatorTitle"><div class="calculator-heading"><h2 id="calculatorTitle">Calculatrice</h2><button id="calculatorClose" type="button" aria-label="Fermer la calculatrice">×</button></div><label class="sr-only" for="calculatorDisplay">Calcul et résultat</label><input id="calculatorDisplay" class="calculator-display" type="text" readonly value="0" aria-describedby="calculatorStatus" autocomplete="off"><div class="calculator-keys"><button id="calculatorKey0" type="button" aria-label="Effacer tout">C</button><button id="calculatorKey1" type="button" aria-label="Effacer le dernier caractère">⌫</button><button id="calculatorKey2" type="button">(</button><button id="calculatorKey3" type="button">)</button><button id="calculatorKey4" type="button">7</button><button id="calculatorKey5" type="button">8</button><button id="calculatorKey6" type="button">9</button><button id="calculatorKey7" type="button" class="calc-operator">÷</button><button id="calculatorKey8" type="button">4</button><button id="calculatorKey9" type="button">5</button><button id="calculatorKey10" type="button">6</button><button id="calculatorKey11" type="button" class="calc-operator">×</button><button id="calculatorKey12" type="button">1</button><button id="calculatorKey13" type="button">2</button><button id="calculatorKey14" type="button">3</button><button id="calculatorKey15" type="button" class="calc-operator">−</button><button id="calculatorKey16" type="button">0</button><button id="calculatorKey17" type="button">,</button><button id="calculatorKey18" type="button" class="calc-equals">=</button><button id="calculatorKey19" type="button" class="calc-operator">+</button></div><button id="calculatorCopy" class="calculator-copy" type="button" disabled>Reporter le résultat</button><p id="calculatorStatus" class="calculator-status" role="status" aria-live="polite"></p><p><span id="calculatorHint">Étendue = maximum − minimum.</span><br>Le temps continue de s’écouler.</p></aside>
@@ -2067,7 +2067,7 @@ function generateRelatives(level){
       questionTime=currentStage>=5?courtModule().time*1000:currentStage===3?30000:10000;questionIndex=0;correct=0;answers=[];totalSpentMs=0;
       const title=stageTitles[currentStage];
       document.querySelector('.quiz-brand small').textContent="L’Académie des Nombres · Niveau "+(currentStage>=19?'4':currentStage>=12?'3':currentStage>=5?'2':'1');
-      document.querySelector('.quiz-stage-label').innerHTML=(currentStage>=19?'⚜ La Forge des Nombres':currentStage>=12?'⚜ L’Observatoire royal':currentStage>=5?'⚜ La Cour des Savoirs':'⚜ Les bases de l’Académie')+' <small>v0.3.59-test</small>';
+      document.querySelector('.quiz-stage-label').innerHTML=(currentStage>=19?'⚜ La Forge des Nombres':currentStage>=12?'⚜ L’Observatoire royal':currentStage>=5?'⚜ La Cour des Savoirs':'⚜ Les bases de l’Académie')+' <small>v0.3.60-test</small>';
       quizScreen.classList.toggle('fractions-quiz',currentStage===3);quizScreen.classList.toggle('level2-quiz',currentStage>=5);
       document.querySelector('.quiz-tip').textContent=currentStage===3?'Trouve le numérateur manquant · 8 bonnes réponses pour rejoindre le pont.':'⚜ Obtiens au moins 8 bonnes réponses pour ouvrir la voie suivante.';
       document.querySelector('.quiz-title-wrap strong').textContent=title;
@@ -2560,23 +2560,40 @@ eq_niv7:{group:'Équations',color:'#2563eb',icon:'=',title:'Équations — Nivea
       [560,915],[272,780],[272,450],[512,346],
       [720,302],[930,347],[990,535],[973,806],[1215,865]
     ];
+    // Dense rounded paths are shared by the gold line and the walking animation.
+    function smoothCourtRoute(points){
+      const result=[points[0]];
+      for(let i=0;i<points.length-1;i++){
+        const a=points[Math.max(0,i-1)],b=points[i],c=points[i+1],d=points[Math.min(points.length-1,i+2)];
+        for(let step=1;step<=20;step++){
+          const t=step/20,t2=t*t,t3=t2*t;
+          result.push(b.map((v,axis)=>.5*((2*v)+(-a[axis]+c[axis])*t+(2*a[axis]-5*v+4*c[axis]-d[axis])*t2+(-a[axis]+3*v-3*c[axis]+d[axis])*t3)));
+        }
+      }
+      return result;
+    }
     const observatorySevenRoutes=[
-      [[560,915],[540,875],[482,846],[406,824],[335,804],[272,780]],
-      [[272,780],[336,758],[399,718],[422,651],[406,582],[350,505],[272,450]],
-      [[272,450],[370,441],[438,421],[472,379],[512,346]],
+      [[560,915],[556,866],[526,824],[453,809],[360,800],[272,780]],
+      [[272,780],[373,779],[480,751],[552,709],[601,658],[586,616],[521,585],[463,546],[418,500],[354,469],[272,450]],
+      [[272,450],[364,459],[425,445],[473,402],[512,346]],
       [[512,346],[585,349],[638,333],[678,309],[720,302]],
       [[720,302],[787,306],[838,331],[885,345],[930,347]],
       [[930,347],[950,389],[940,436],[939,481],[960,518],[990,535]],
-      [[990,535],[930,572],[879,605],[856,651],[867,704],[900,756],[973,806]],
+      [[990,535],[939,568],[871,590],[797,610],[733,652],[742,706],[806,756],[890,790],[973,806]],
       [[973,806],[1052,823],[1133,844],[1215,865]]
-    ];
+    ].map(smoothCourtRoute);
+    function observatoryRouteMarkup(){
+      const line=observatorySevenRoutes.map(points=>'M'+points.map(p=>p.join(',')).join(' L')).join(' ');
+      const rings=observatorySevenStops.slice(1,8).map(([x,y])=>`<ellipse cx="${x}" cy="${y}" rx="34" ry="14" fill="#ffe553" stroke="#fffbc2" stroke-width="4"/>`).join('');
+      return `<defs><filter id="observatoryRouteGlow" x="-20%" y="-20%" width="140%" height="140%"><feGaussianBlur stdDeviation="4"/></filter></defs><path d="${line}" fill="none" stroke="#ffc600" stroke-width="17" opacity=".8" filter="url(#observatoryRouteGlow)"/><path d="${line}" fill="none" stroke="#ffce20" stroke-width="9"/><path d="${line}" fill="none" stroke="#fff5a0" stroke-width="4"/><g fill="none" stroke="#ffd400" stroke-width="10" filter="url(#observatoryRouteGlow)">${rings}</g><g>${rings}</g>`;
+    }
     const worldThreeA={
       ...observatoryPartConfig(order3A,0,6),
-      background:'assets/observatoire_niveau3_sans_parchemin.png',
+      background:'assets/observatoire_niveau3_sans_parchemin.png?v=0360',
       points:observatorySevenStops,
       routes:observatorySevenRoutes,
-      // Le décor porte les cercles et le chemin ; les numéros restent en HTML.
-      routeMarkup:''
+      // Même géométrie pour la ligne, les cercles et les pas du personnage.
+      routeMarkup:observatoryRouteMarkup()
     };
     const worldFour={
       ...worldThree,
